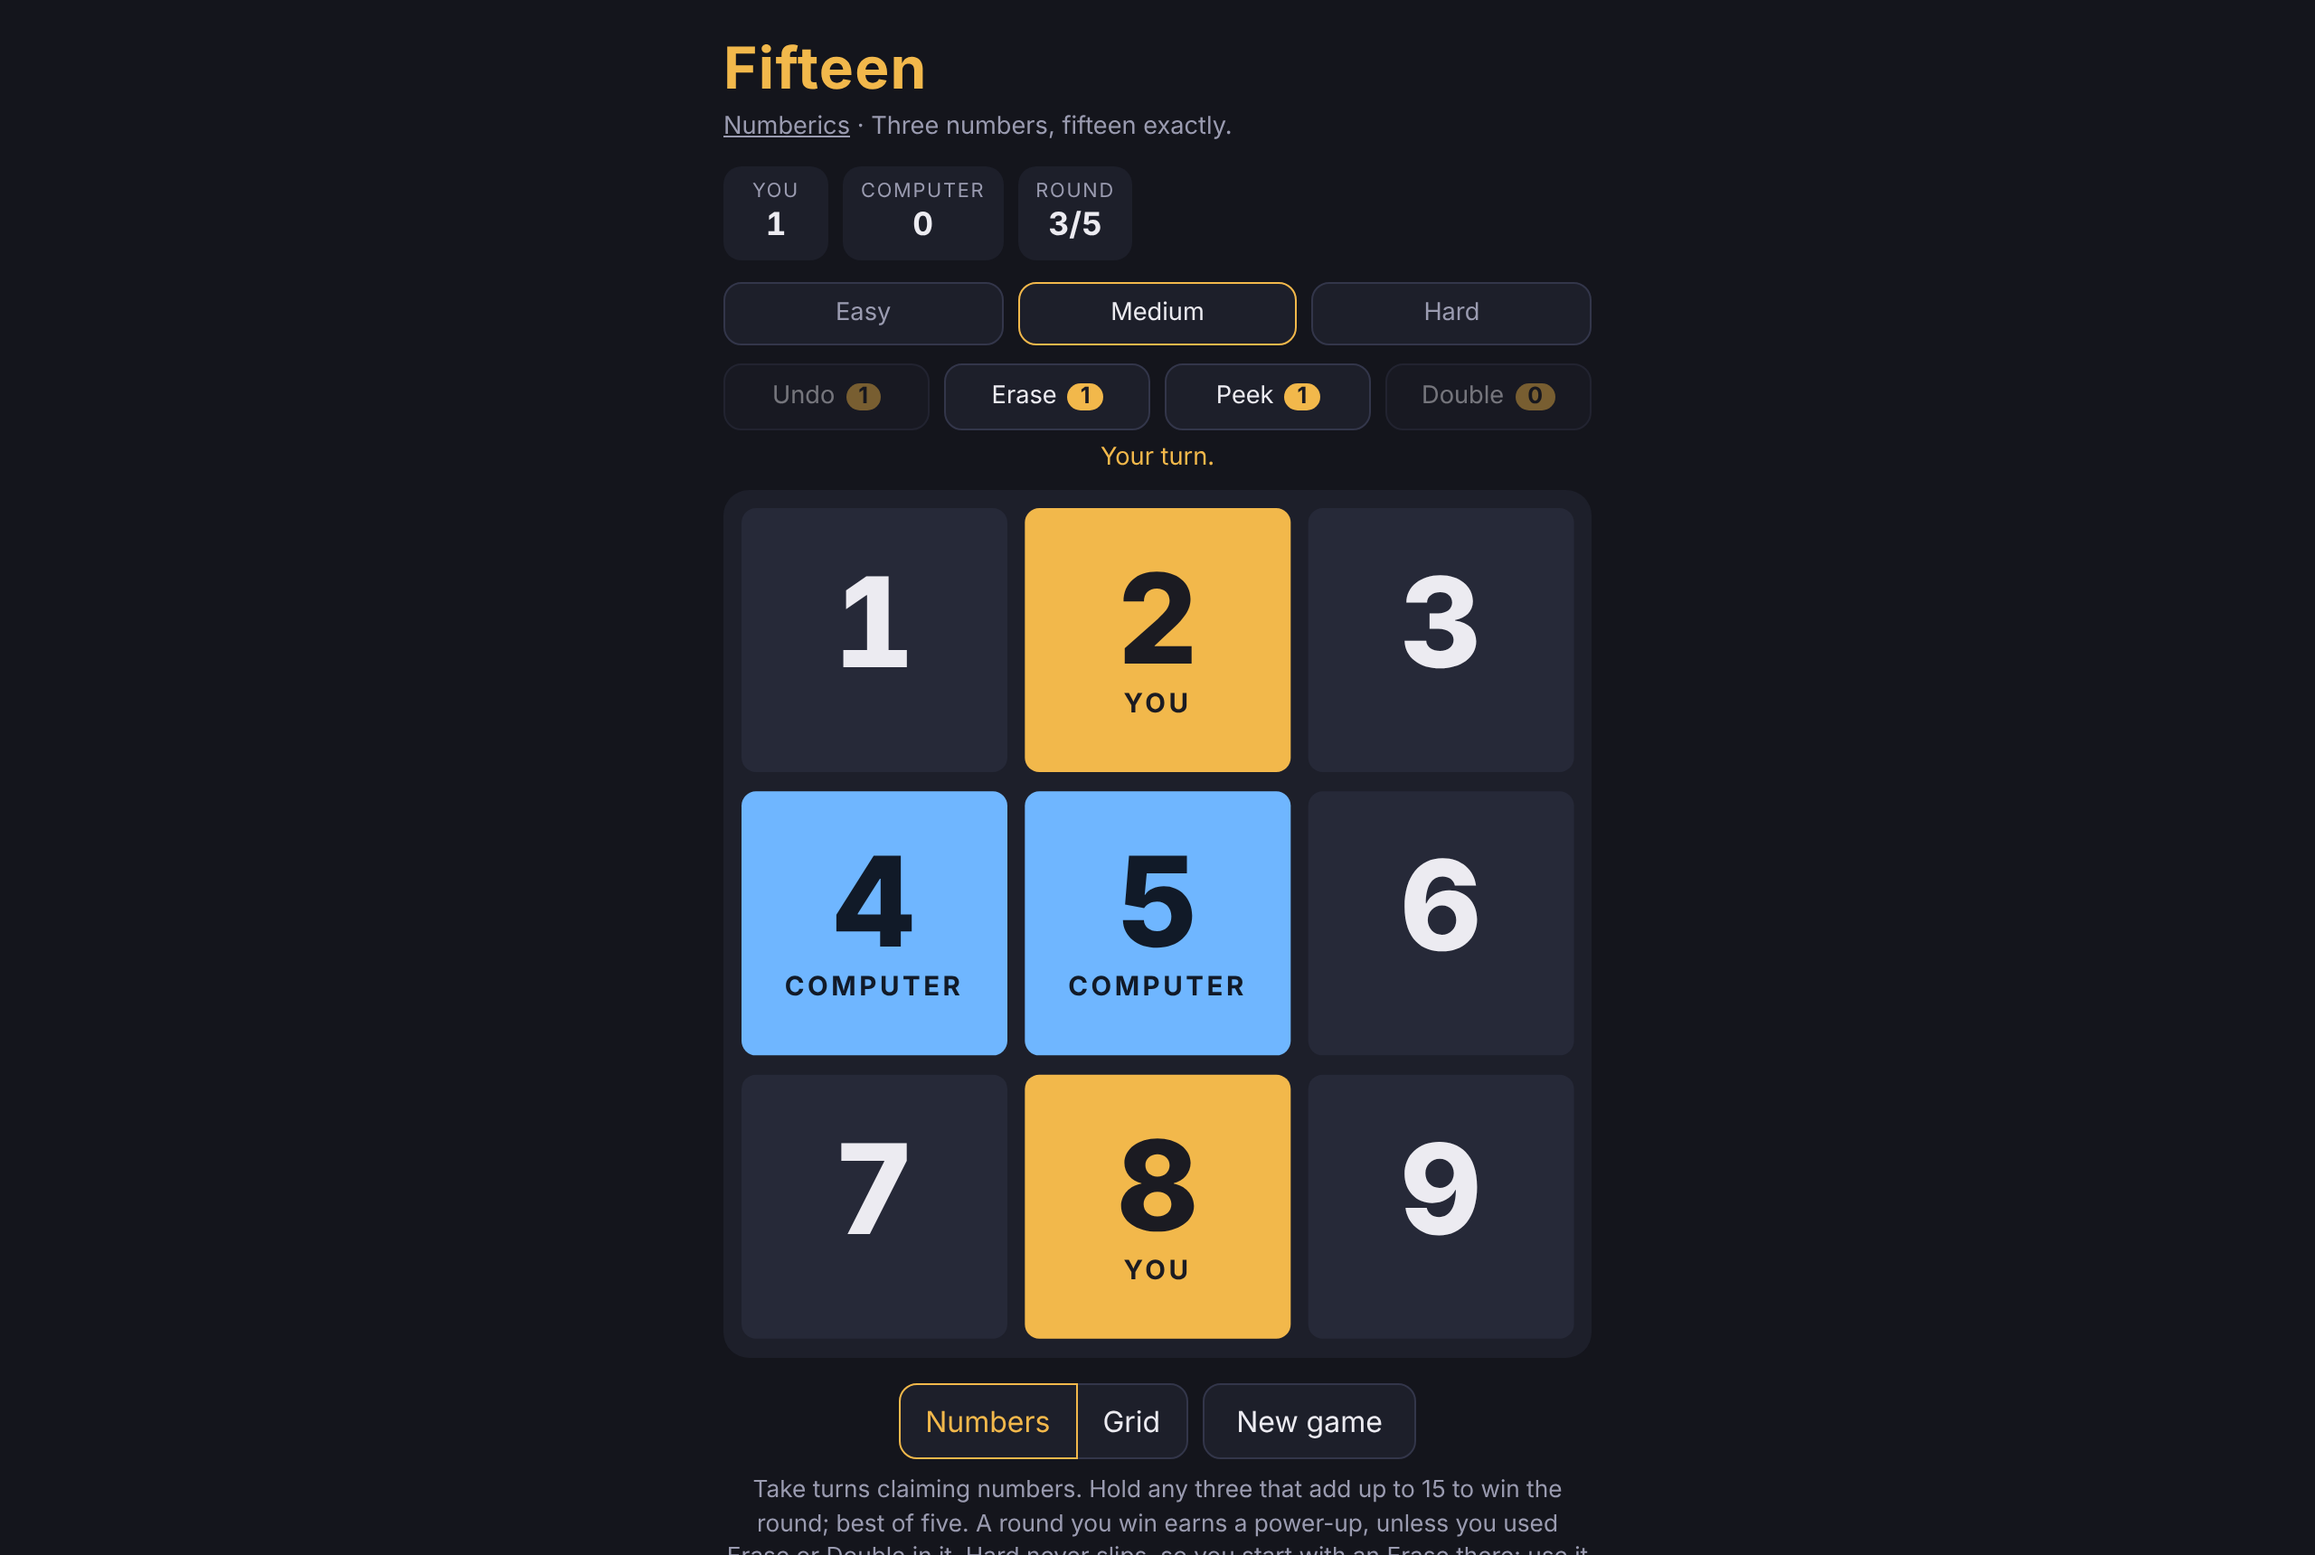
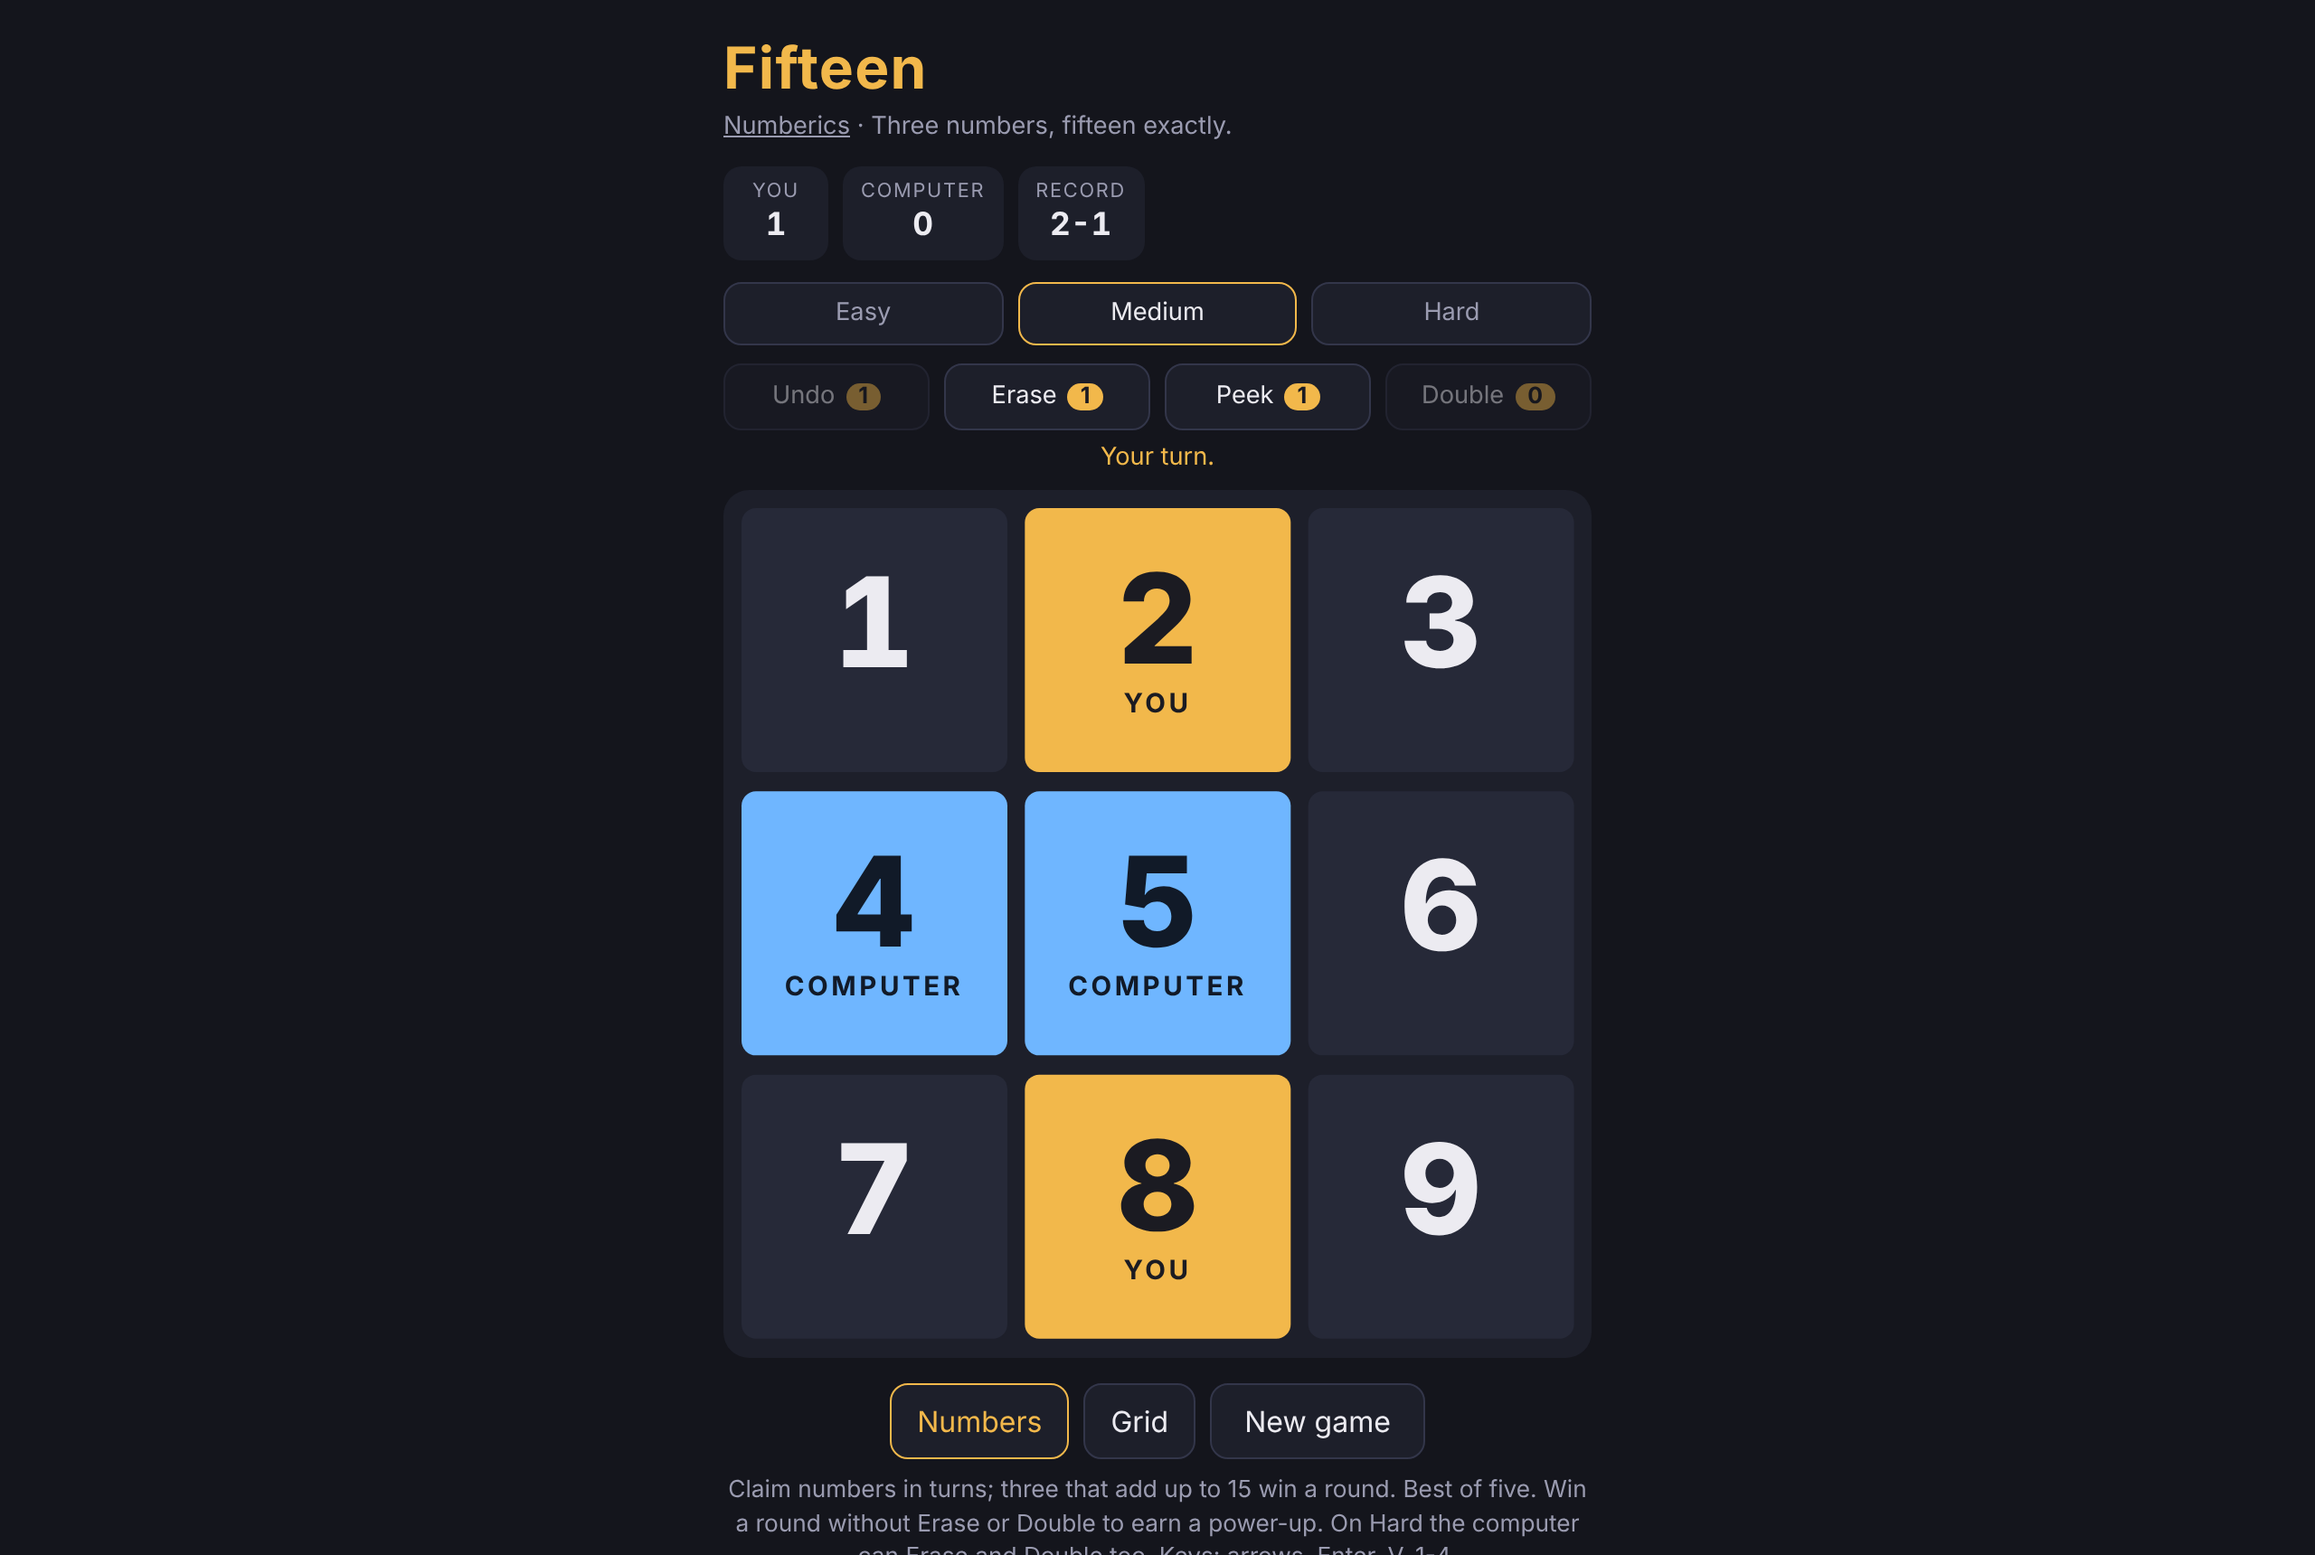
WIP: round 2 fixes in progress (snapshot)

Changed region(s): [[0.3125, 0.9552, 0.6875, 1.0], [0.375, 0.8936, 0.5938, 0.9244], [0.4375, 0.1233, 0.5, 0.1541]]

diff --git a/five/game.js b/five/game.js
@@ -96,7 +96,7 @@
     if (armed) hint = PW_HINT[armed] + (keys ? " (Esc cancels)" : "");
     else if (levelArm) hint = "Tap " + PW_LEVEL[levelArm] + " again to switch. This match counts as a loss.";
     else if (state.roundOver) hint = state.roundOver === "draw" ? "Drawn: the same position came up 3 times, or 40 turns passed without a burst."
-      : (holding || viewing) ? lastWords() + (viewing ? " Tap the board for the summary." : "") : "";
+      : viewing ? "Tap the board for the summary." : holding ? lastWords() : ""; // one line: the ringed slot shows what burst
     else if (state.turn === "c" || busy) hint = "The computer is thinking\u2026";
     else if (N.mustPass(state)) hint = "Nothing to hit this turn. Tap your tile to pass, or use a power-up.";
     else if (sel >= 0) hint = "Add " + state.tiles[sel] + " onto which tile? Your own other tile counts.";

diff --git a/fifteen/style.css b/fifteen/style.css
@@ -23,7 +23,7 @@
 .ft.win.theirs{ box-shadow:0 0 14px 2px var(--cool); }
 @keyframes ft-win{ 50%{ filter:brightness(1.15); } }
 /* under the round-end scrim the board rests evenly (craft N3); the chips carry the winning three */
-.board.ended .ft{ opacity:1; box-shadow:none; animation:none; }
+.board.ended .ft{ opacity:.35; box-shadow:none; animation:none; }   /* under the card the ghost digits stay faint (craft round 2 #6) */
 .ft.peek{ box-shadow:inset 0 0 0 3px var(--accent); }
 .ft.blocked{ opacity:.45; cursor:not-allowed; }
 .ft.target{ cursor:crosshair; box-shadow:inset 0 0 0 4px var(--accent), inset 0 0 0 6px #111a28; }
